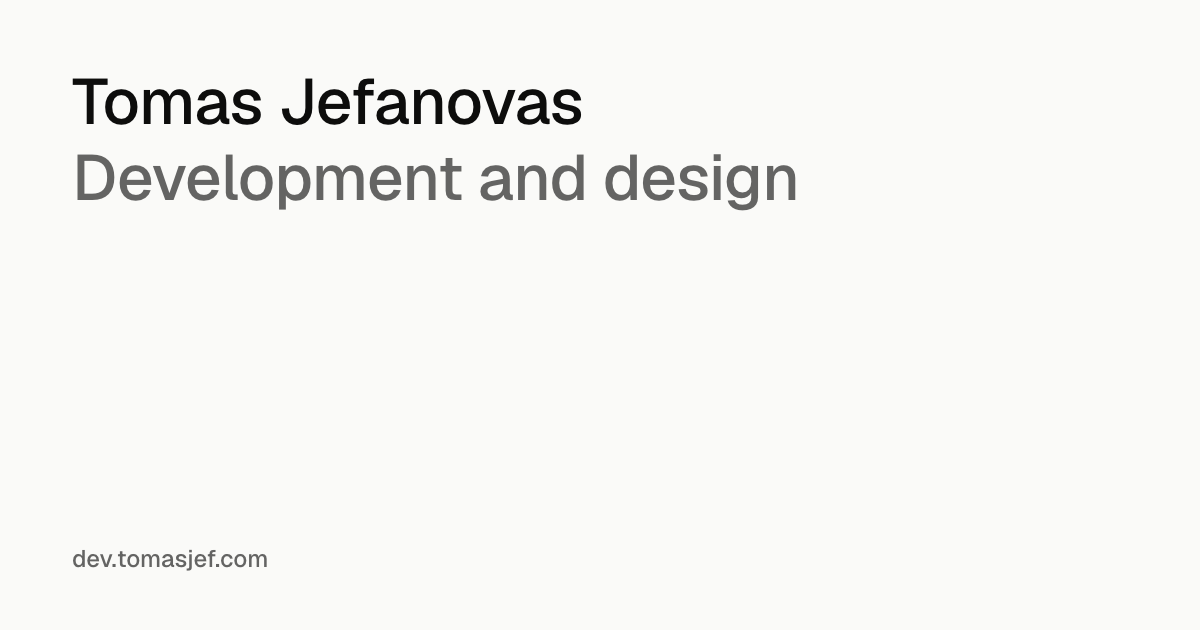
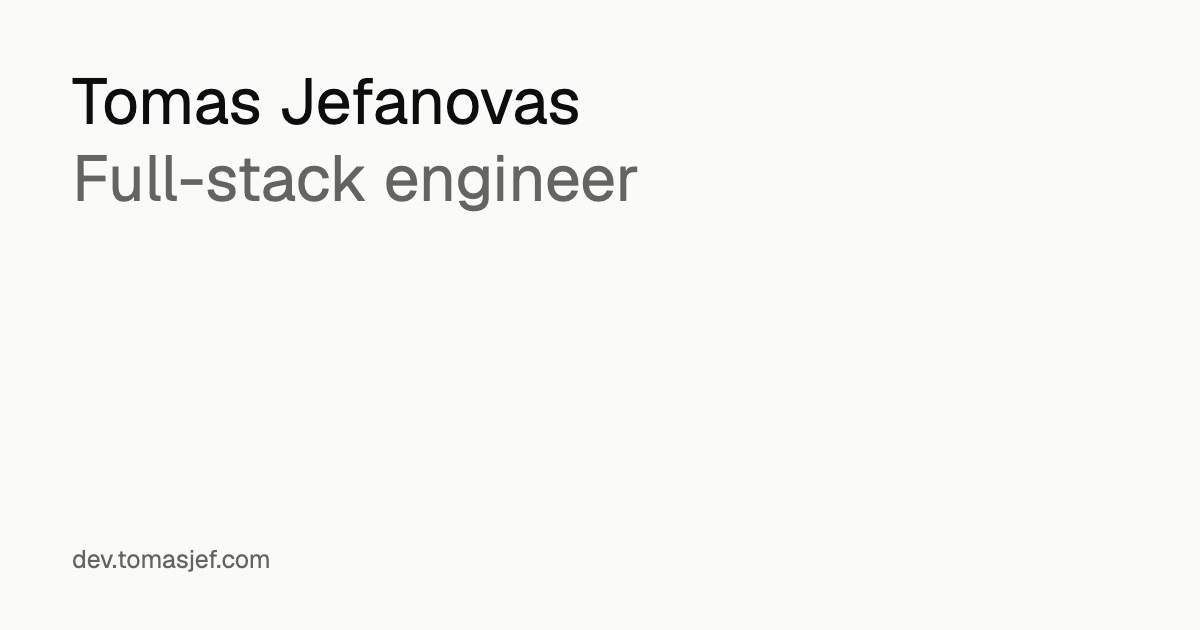
Retitle as full-stack engineer; update profile, experience and skills copy
The link-preview image is re-rendered with the new subtitle.

diff --git a/src/content.ts b/src/content.ts
@@ -1,7 +1,7 @@
 export const siteUrl = "https://dev.tomasjef.com";
 
 export const profile =
-  "Developer and designer, recently graduated from Le\u00a0Wagon's AI Software Development Bootcamp. Background in graphic design and art direction for national museums and galleries, with a typography-led, systematic approach. Experienced in leading projects end to end, working closely with clients and multidisciplinary teams.";
+  "Full-stack engineer with a design background, trained at Le\u00a0Wagon in 2026, using code and AI as tools to turn ideas into working projects. Years of design and art direction for national museums and galleries bring close attention to detail and a systematic way of working. Experienced in leading projects end to end, working closely with clients and multidisciplinary teams.";
 
 export type Project = {
   name: string;
@@ -93,12 +93,12 @@ export const jobs: Job[] = [
     org: "Margate Electronics",
     url: "https://margate-electronics.org/",
     role: "Co-founder and creative director",
-    context: "Independent record label and event series",
+    context: "Live event series and independent record label",
     summary:
-      "Created brand identity, marketing materials, merchandise, and designed and built the website. Ongoing curation and coordinating the programme of live events and releases, working with artists and venues. Secured an Arts Council England grant.",
+      "Curate and promote a programme of live events, and produce physical and digital releases with artists. Secured Arts Council England funding and plan the programme to a fixed budget. Created the brand, merchandise and website.",
   },
   {
-    dates: "2015–present",
+    dates: "2016–present",
     org: "Public Identity",
     url: "https://publicidentity.studio/",
     role: "Designer and art director",
@@ -109,17 +109,18 @@ export const jobs: Job[] = [
       { name: "V&A", url: "https://www.vam.ac.uk/" },
       { name: "London Museum", url: "https://www.londonmuseum.org.uk/" },
       { name: "National Portrait Gallery", url: "https://www.npg.org.uk/" },
-      { name: "British Museum", url: "https://www.britishmuseum.org/" },
+      { name: "The British Museum", url: "https://www.britishmuseum.org/" },
       { name: "Sadler's Wells", url: "https://www.sadlerswells.com/" },
       { name: "JW3", url: "https://www.jw3.org.uk/" },
     ],
   },
   {
-    dates: "2013–2015",
+    dates: "2013–2016",
     org: "Tate",
     url: "https://www.tate.org.uk/",
     role: "Graphic and digital designer",
-    context: "Full-time, in-house design studio",
+    context:
+      "Full-time, in-house design studio until 2014, then freelance while at the RCA",
     summary:
       "Designed campaign identities for major exhibitions across all four Tate galleries and applied them to digital assets, printed collateral and exhibition graphics. Worked closely with marketing, curatorial and interpretation teams, maintaining brand standards throughout a high-volume programme.",
   },
@@ -143,7 +144,9 @@ export const skills: { heading: string; items: string[] }[] = [
       "Hotwire",
       "JavaScript",
       "TypeScript",
-      "PostgreSQL, SQL",
+      "Next.js",
+      "PostgreSQL",
+      "SQL",
       "HTML",
       "CSS/SCSS",
       "REST APIs",
@@ -151,11 +154,17 @@ export const skills: { heading: string; items: string[] }[] = [
   },
   {
     heading: "AI tooling",
-    items: ["OpenAI API", "RAG, vector embeddings", "Prompt design"],
+    items: [
+      "OpenAI API",
+      "RAG",
+      "Vector embeddings",
+      "Claude Code",
+      "Prompt design",
+    ],
   },
   {
-    heading: "Code tools",
-    items: ["Git, GitHub", "VS Code", "Claude Code", "Heroku", "Cloudflare"],
+    heading: "Tools and deployment",
+    items: ["Git", "CI/CD (GitHub Actions)", "Cloudflare", "Heroku"],
   },
   { heading: "Design tools", items: ["Figma", "Adobe Creative Cloud"] },
 ];

diff --git a/src/app/page.tsx b/src/app/page.tsx
@@ -15,7 +15,7 @@ export default function Home() {
       <header className="pb-12 xl:col-span-7 xl:col-start-3">
         <h1 className="text-title">
           Tomas Jefanovas
-          <span className="block text-muted">Development and design</span>
+          <span className="block text-muted">Full-stack engineer</span>
         </h1>
         {/* Below xl Contact sits here; on desktop it heads the sidebar */}
         <ContactBlock className="mt-6 xl:hidden" />

diff --git a/src/app/not-found.tsx b/src/app/not-found.tsx
@@ -6,7 +6,7 @@ export default function NotFound() {
       <main className="xl:col-span-7 xl:col-start-3">
         <h1 className="text-title">
           Tomas Jefanovas
-          <span className="block text-muted">Development and design</span>
+          <span className="block text-muted">Full-stack engineer</span>
         </h1>
         <p className="mt-12 text-title text-muted">This page doesn’t exist.</p>
         <p className="mt-4">

diff --git a/src/app/layout.tsx b/src/app/layout.tsx
@@ -11,7 +11,7 @@ const geistSans = localFont({
   variable: "--font-geist-sans",
 });
 
-const title = "Tomas Jefanovas · Development and design";
+const title = "Tomas Jefanovas · Full-stack engineer";
 
 // Link previews matter more than search here: the site is shared by URL, not found.
 // The preview image and icons come from opengraph-image.png, icon.svg and favicon.ico here.
